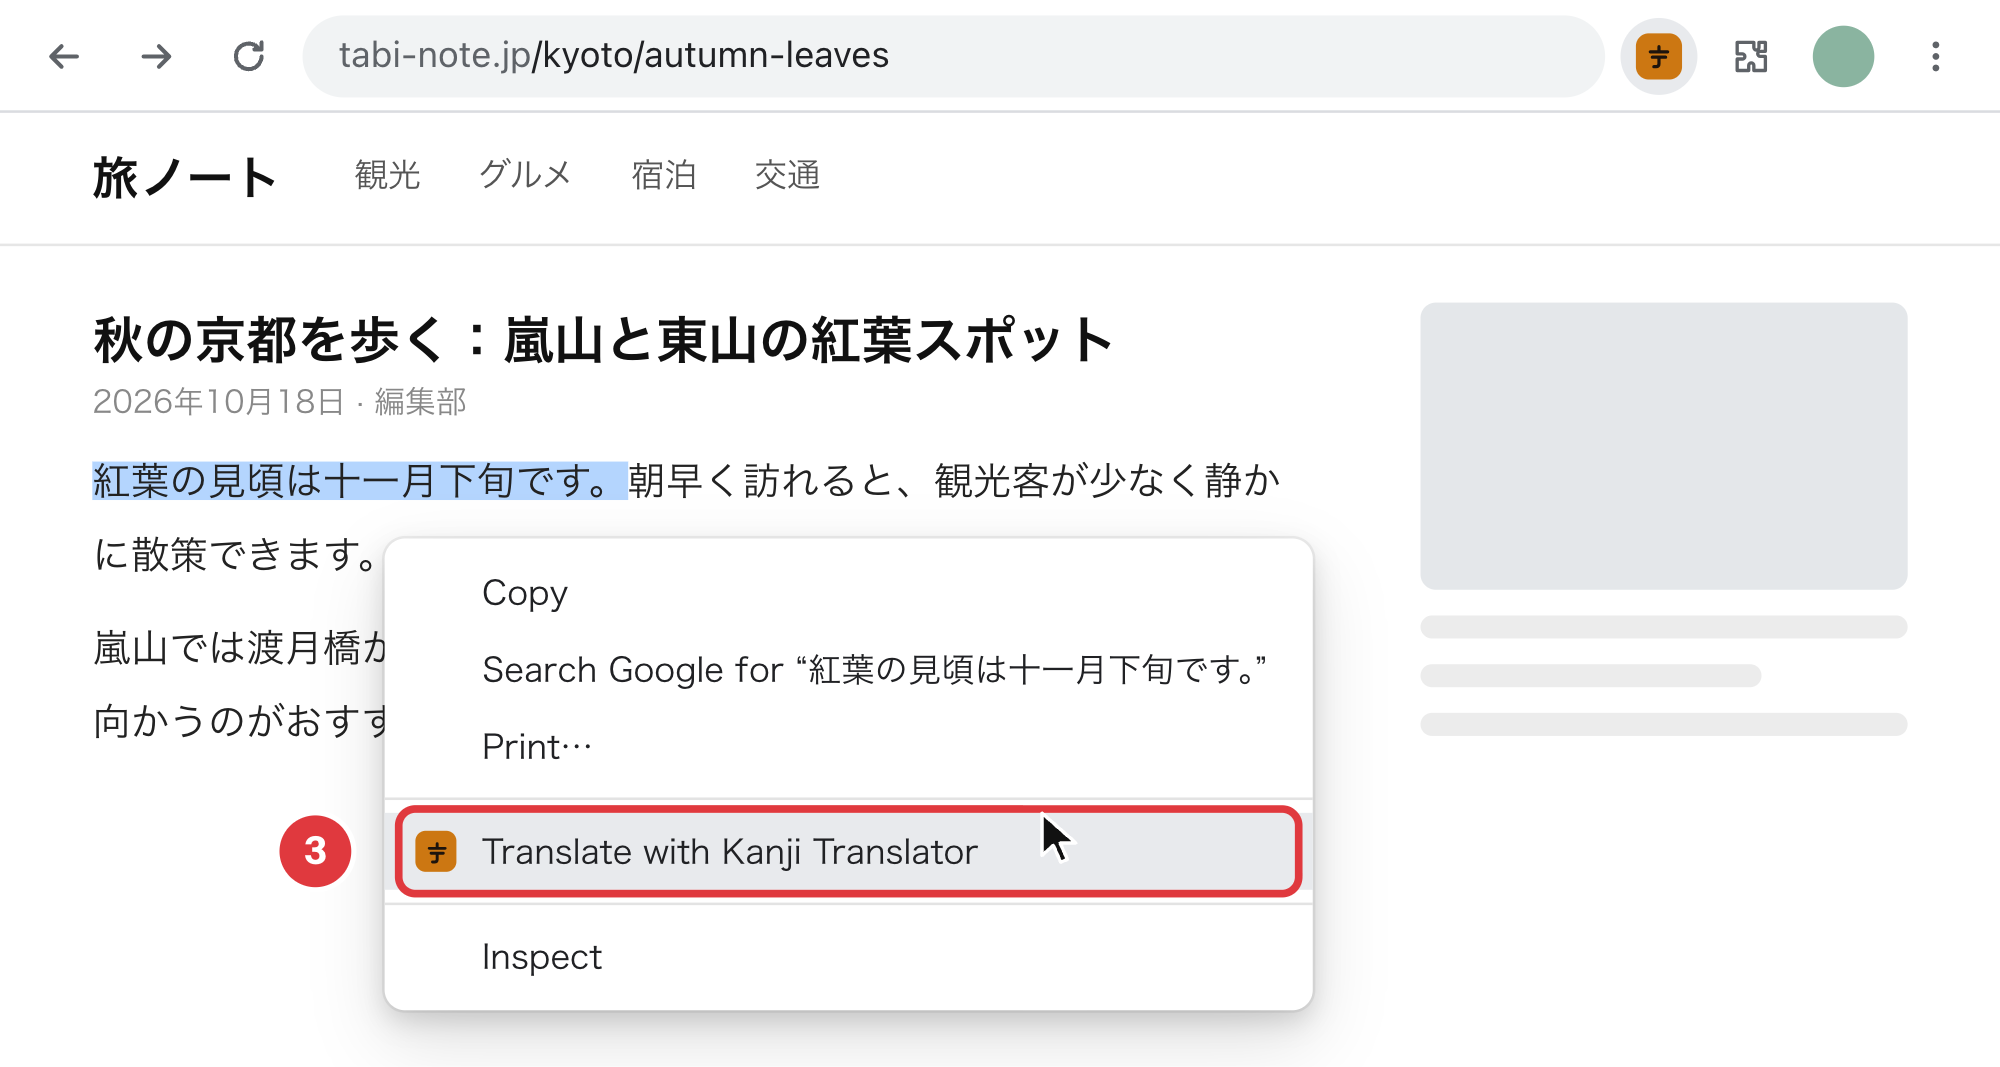
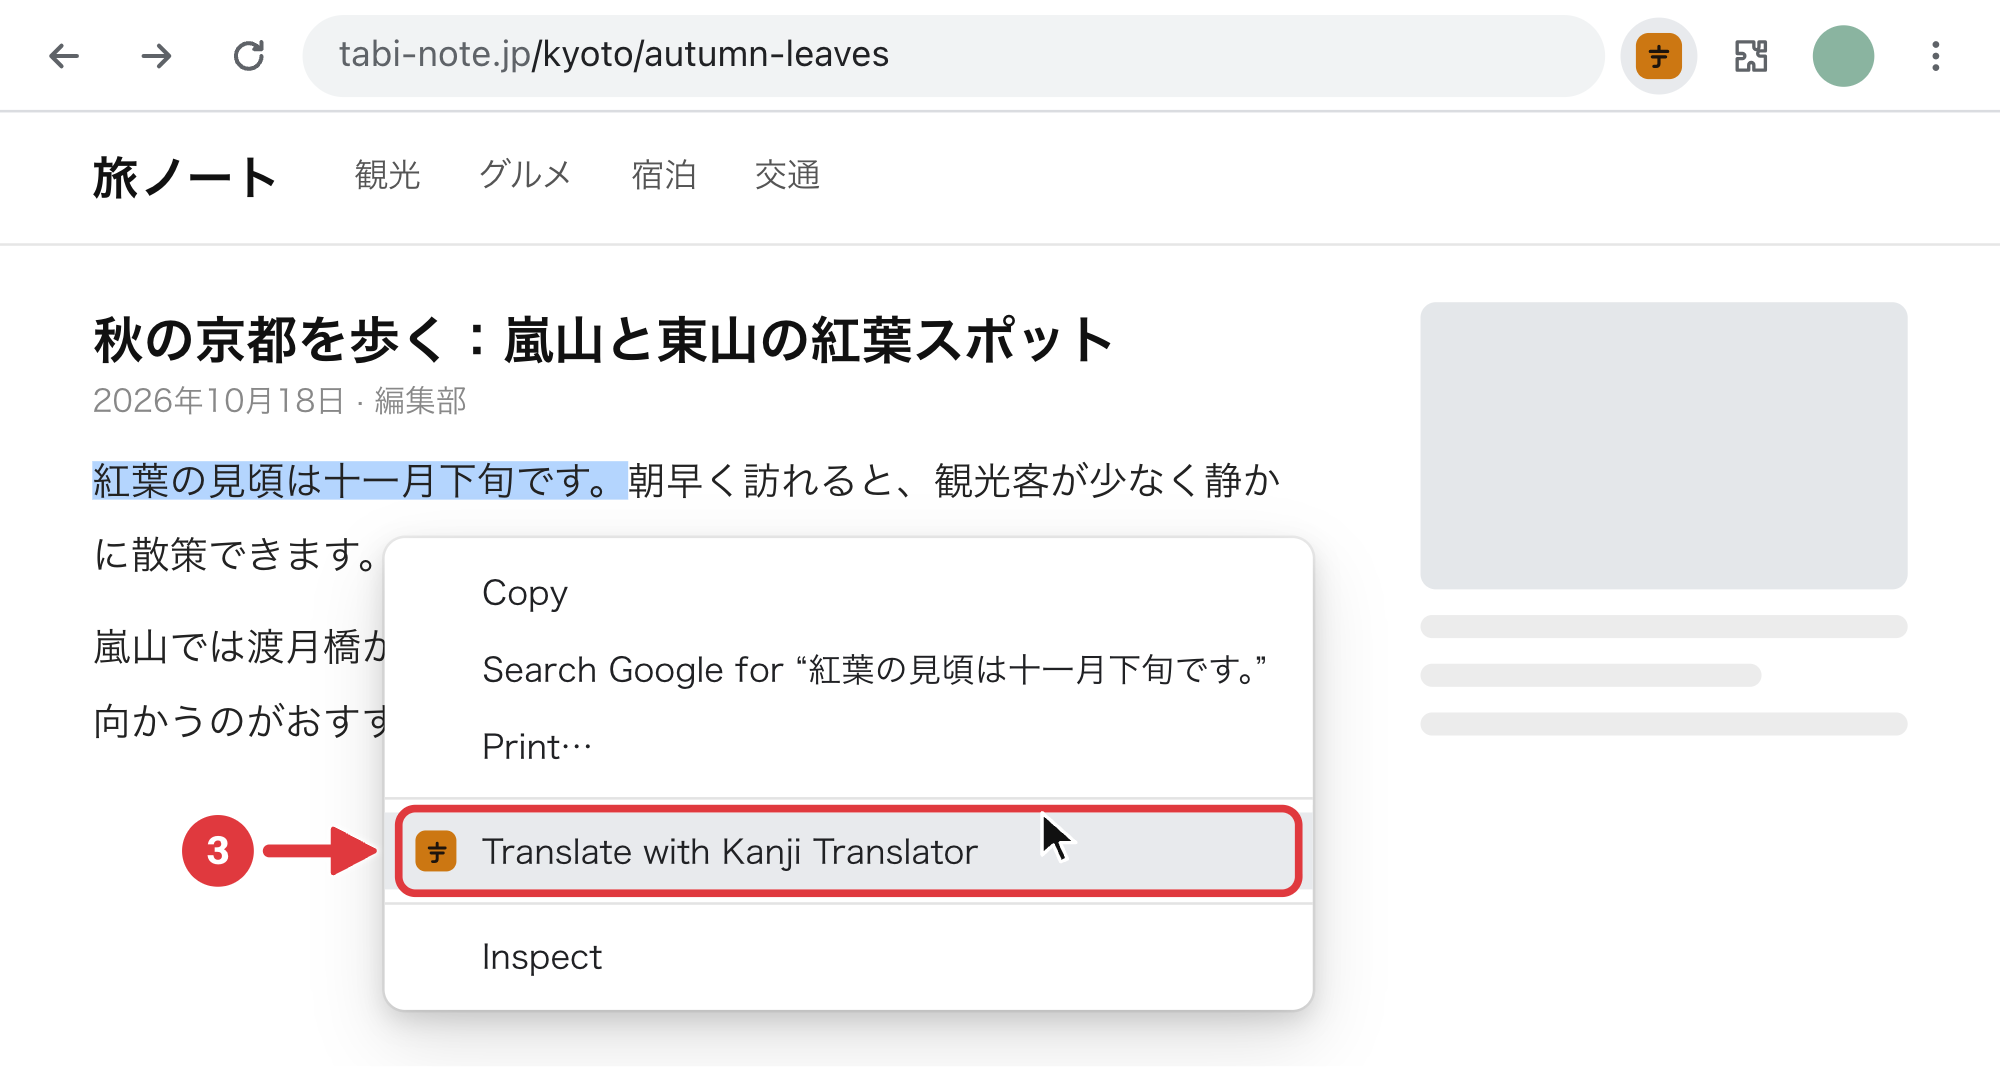
Welcome: numbered steps, pin first, "Try it here" right after pinning
- Steps 1-4 are numbered; the pin step leads with its own headings.
- The "Try it here" line sits right after steps 1-2, so its Japanese
  line is above the fold at 1280x680 and 1440x790.
- Screenshots fit the text column (680 px); the pin shot is cropped.
- "most websites" instead of "any website"; the Google Docs note is
  dropped from step 4.

diff --git a/welcome/index.html b/welcome/index.html
@@ -23,25 +23,23 @@
   .brand { margin-bottom: 26px; }
 
   h1 { font-size: 31px; line-height: 1.16; letter-spacing: -0.02em; text-wrap: balance; }
-  h1 em { font-style: normal; color: #e8a33d; }
   .lede { margin-top: 12px; font-size: 18px; color: #b3a996; max-width: 56ch; }
   .nw { white-space: nowrap; }
 
   .step { margin-top: 34px; }
   .step h2 { font-size: 24px; line-height: 1.25; letter-spacing: -0.01em; text-wrap: balance; }
   .step > p { margin-top: 8px; color: #b3a996; max-width: 58ch; }
+  .step > .shot + p { margin-top: 16px; }
 
-  /* Annotated screenshots break out of the text column so the UI reads big. */
   .shot {
     position: relative; margin-top: 16px; border-radius: 14px; overflow: hidden;
     border: 1px solid #3a332c; box-shadow: 0 18px 50px rgba(0,0,0,.4); background: #262220;
-    width: min(94vw, 1000px);
-    left: 50%; transform: translateX(-50%);
+    width: 100%; max-width: 680px;
   }
   .shot img { width: 100%; height: auto; display: block; }
 
-  /* A line to try the context menu on right here. */
-  .try { margin-top: 18px; border: 1px solid #3a332c; border-radius: 14px; background: #262220; padding: 18px 22px 20px; }
+  /* A line to try the context menu on right here, right after pinning (steps 1–2). */
+  .try { max-width: 680px; margin-top: 18px; border: 1px solid #3a332c; border-radius: 14px; background: #262220; padding: 18px 22px 20px; }
   .try .q { font-size: 13px; font-weight: 700; letter-spacing: .09em; text-transform: uppercase; color: #e8a33d; }
   .try .jp {
     margin-top: 8px; color: #f2ece2; user-select: text;
@@ -60,31 +58,34 @@
       <b>Kanji Translator</b>
     </div>
 
-    <h1>Kanji Translator is installed. Select text, <span class="nw">right-click</span> — <em>get the translation with kana and romaji.</em></h1>
+    <h1>Kanji Translator is installed.</h1>
     <p class="lede">Chrome hides new extensions behind the puzzle icon. Pin Kanji Translator first — it takes two clicks. No new tab page, no home page changes, nothing runs until you ask.</p>
 
     <section class="step">
+      <h2>1. Click the puzzle icon</h2>
+      <h2>2. Click the pin next to Kanji Translator</h2>
       <div class="shot">
-        <img src="step-1-2-pin.png" alt="Chrome toolbar with the Extensions menu open: 1 — click the puzzle icon, 2 — click the pin next to Kanji Translator" width="2000" height="738">
+        <img src="step-1-2-pin.png" alt="Chrome toolbar with the Extensions menu open: 1 — click the puzzle icon, 2 — click the pin next to Kanji Translator" width="2000" height="523">
       </div>
     </section>
 
+    <div class="try">
+      <p class="q">Try it here</p>
+      <p class="jp" lang="ja">この電車は京都駅に止まりますか？</p>
+      <p class="how">Select the line, right-click, and choose “Translate with Kanji Translator”.</p>
+    </div>
+
     <section class="step">
-      <h2>Select text, <span class="nw">right-click</span>, and choose “Translate with Kanji Translator”</h2>
-      <p>It works with English and Japanese on any website. The translation appears in a card next to the text.</p>
+      <h2>3. Select text, <span class="nw">right-click</span>, and choose “Translate with Kanji Translator”</h2>
       <div class="shot">
         <img src="step-3-context-menu.png" alt="Japanese text selected on a web page and the right-click menu: 3 — Translate with Kanji Translator" width="2000" height="1067">
       </div>
-      <div class="try">
-        <p class="q">Try it here</p>
-        <p class="jp" lang="ja">この電車は京都駅に止まりますか？</p>
-        <p class="how">Select the line, right-click, and choose “Translate with Kanji Translator”.</p>
-      </div>
+      <p>It works with English and Japanese on most websites. The translation appears in a card next to the text.</p>
     </section>
 
     <section class="step">
-      <h2>Click the icon to type or paste text</h2>
-      <p>Type English or Japanese and press Translate. Some pages, like Google Docs, don’t let extensions read the selection — copy the text and paste it into the popup.</p>
+      <h2>4. Click the icon to type or paste text</h2>
+      <p>Type English or Japanese and press Translate.</p>
       <div class="shot">
         <img src="step-4-popup.png" alt="The Kanji Translator popup opened from the pinned toolbar icon (4), with the Japanese translation, hiragana reading and romaji" width="2000" height="1190">
       </div>
